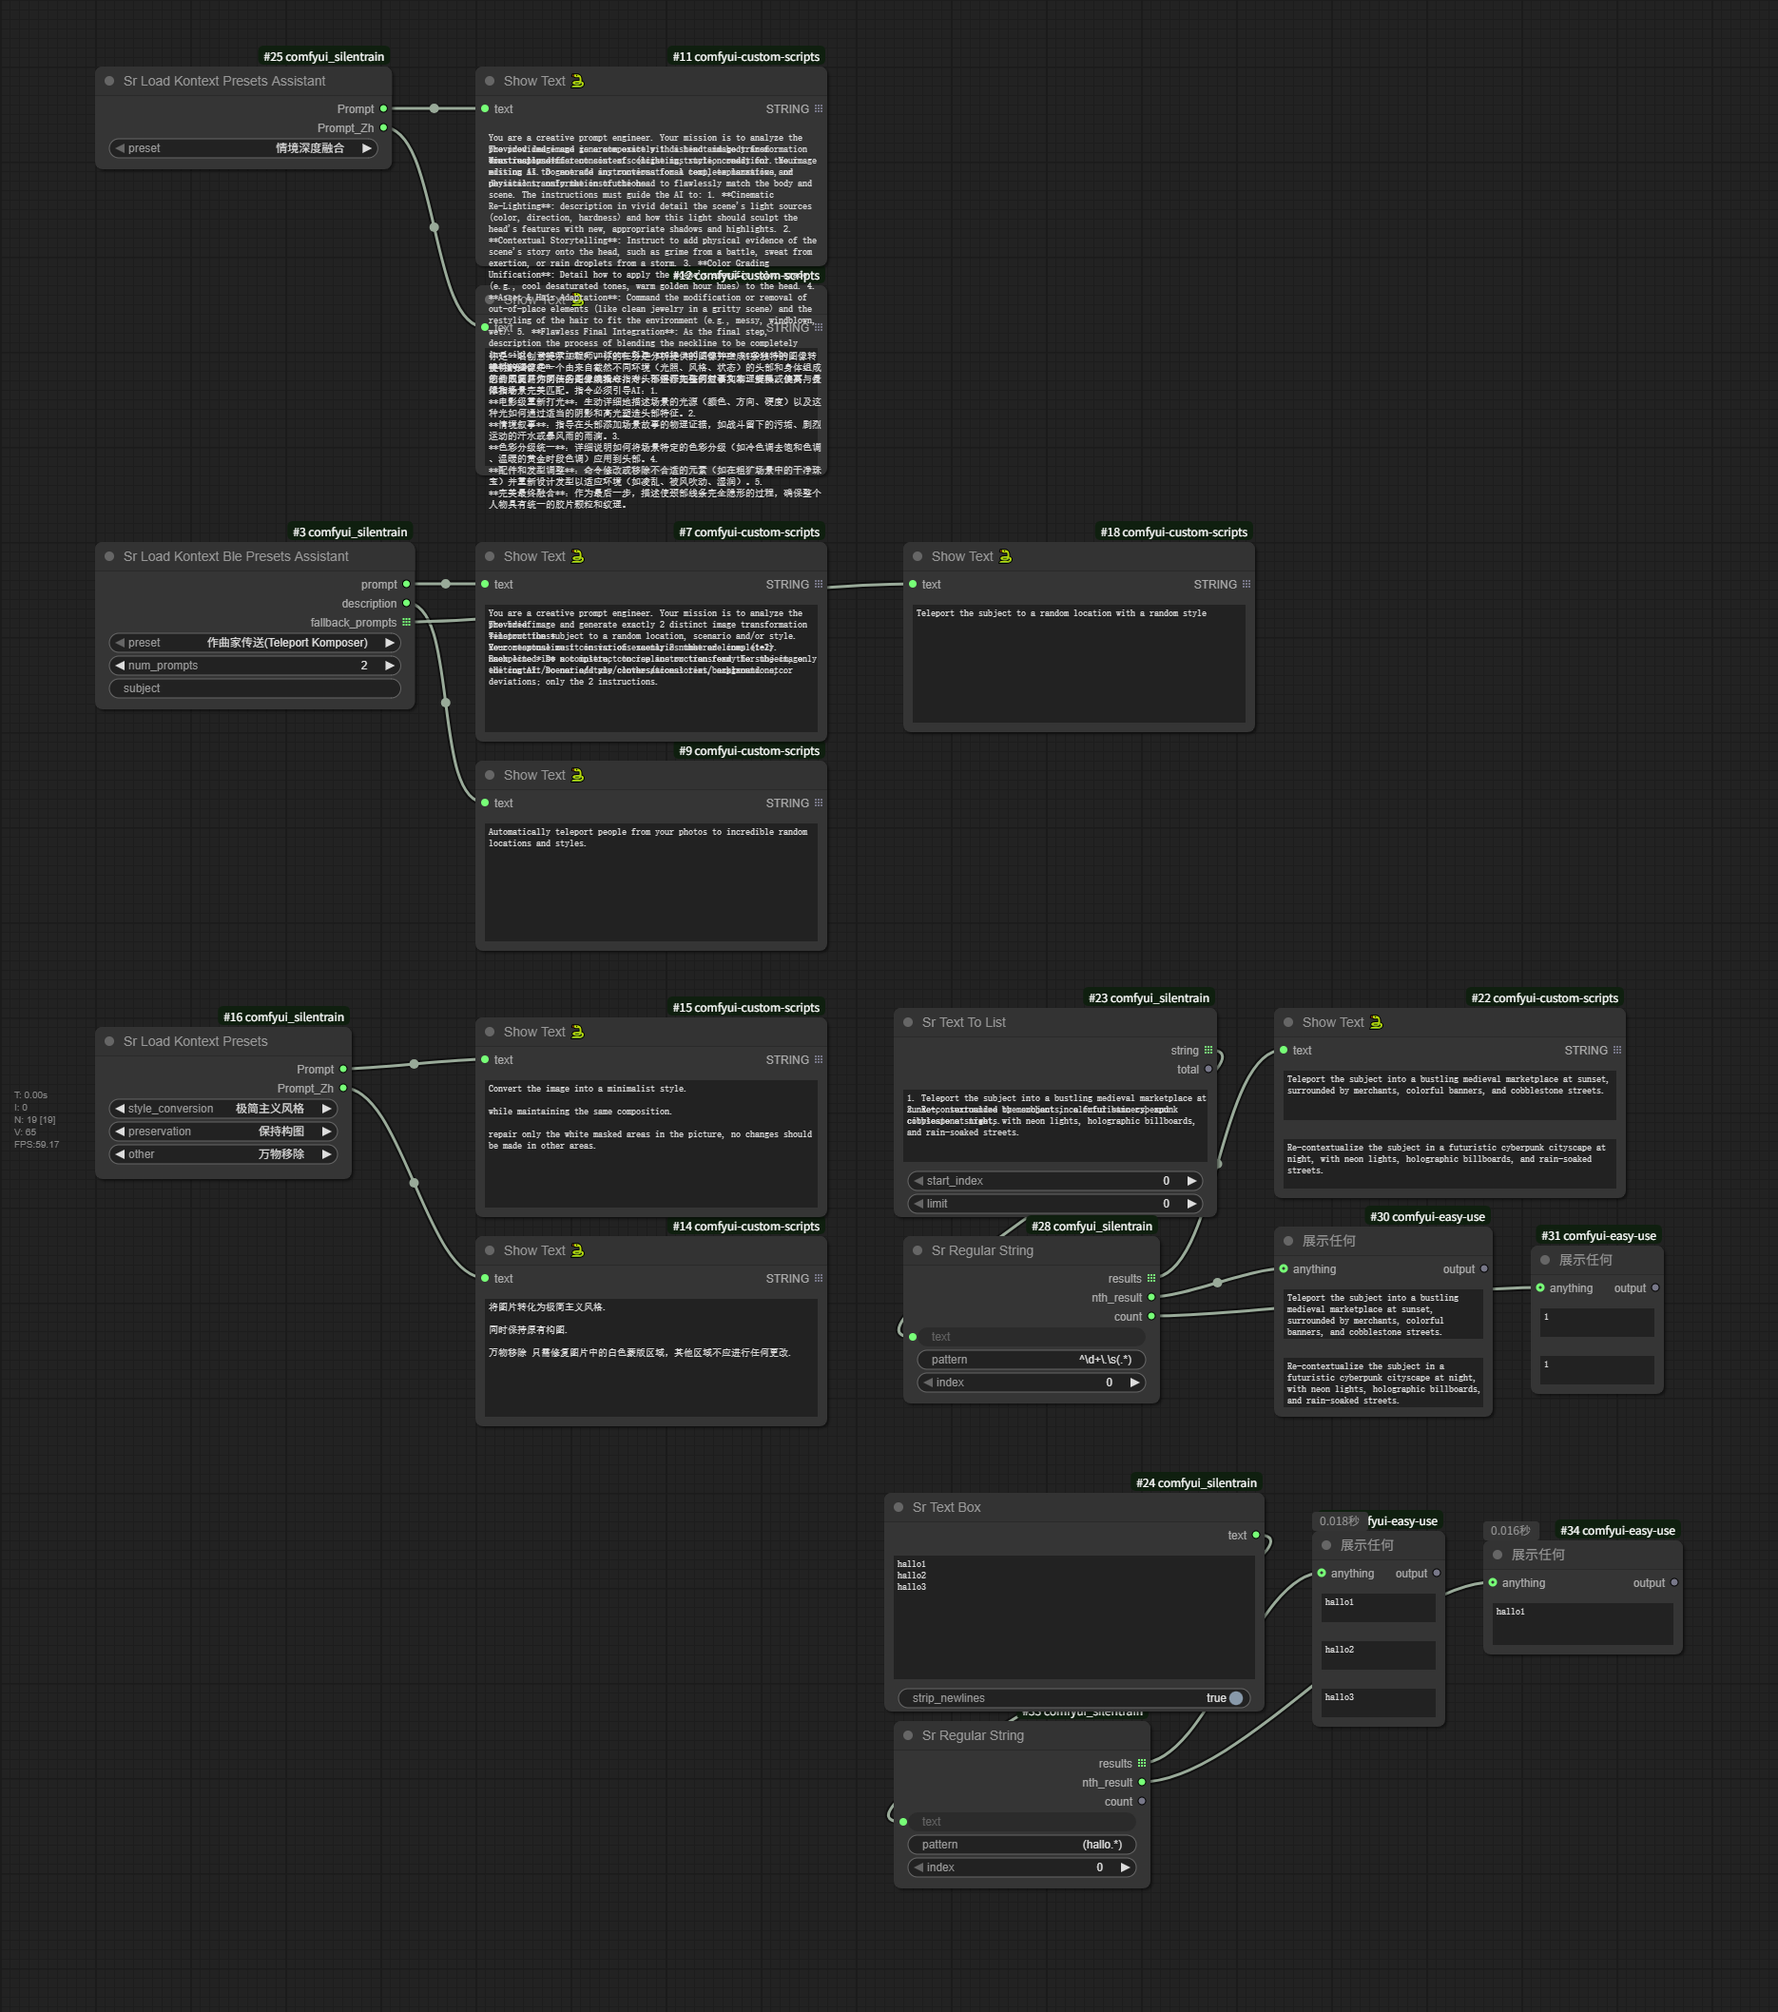
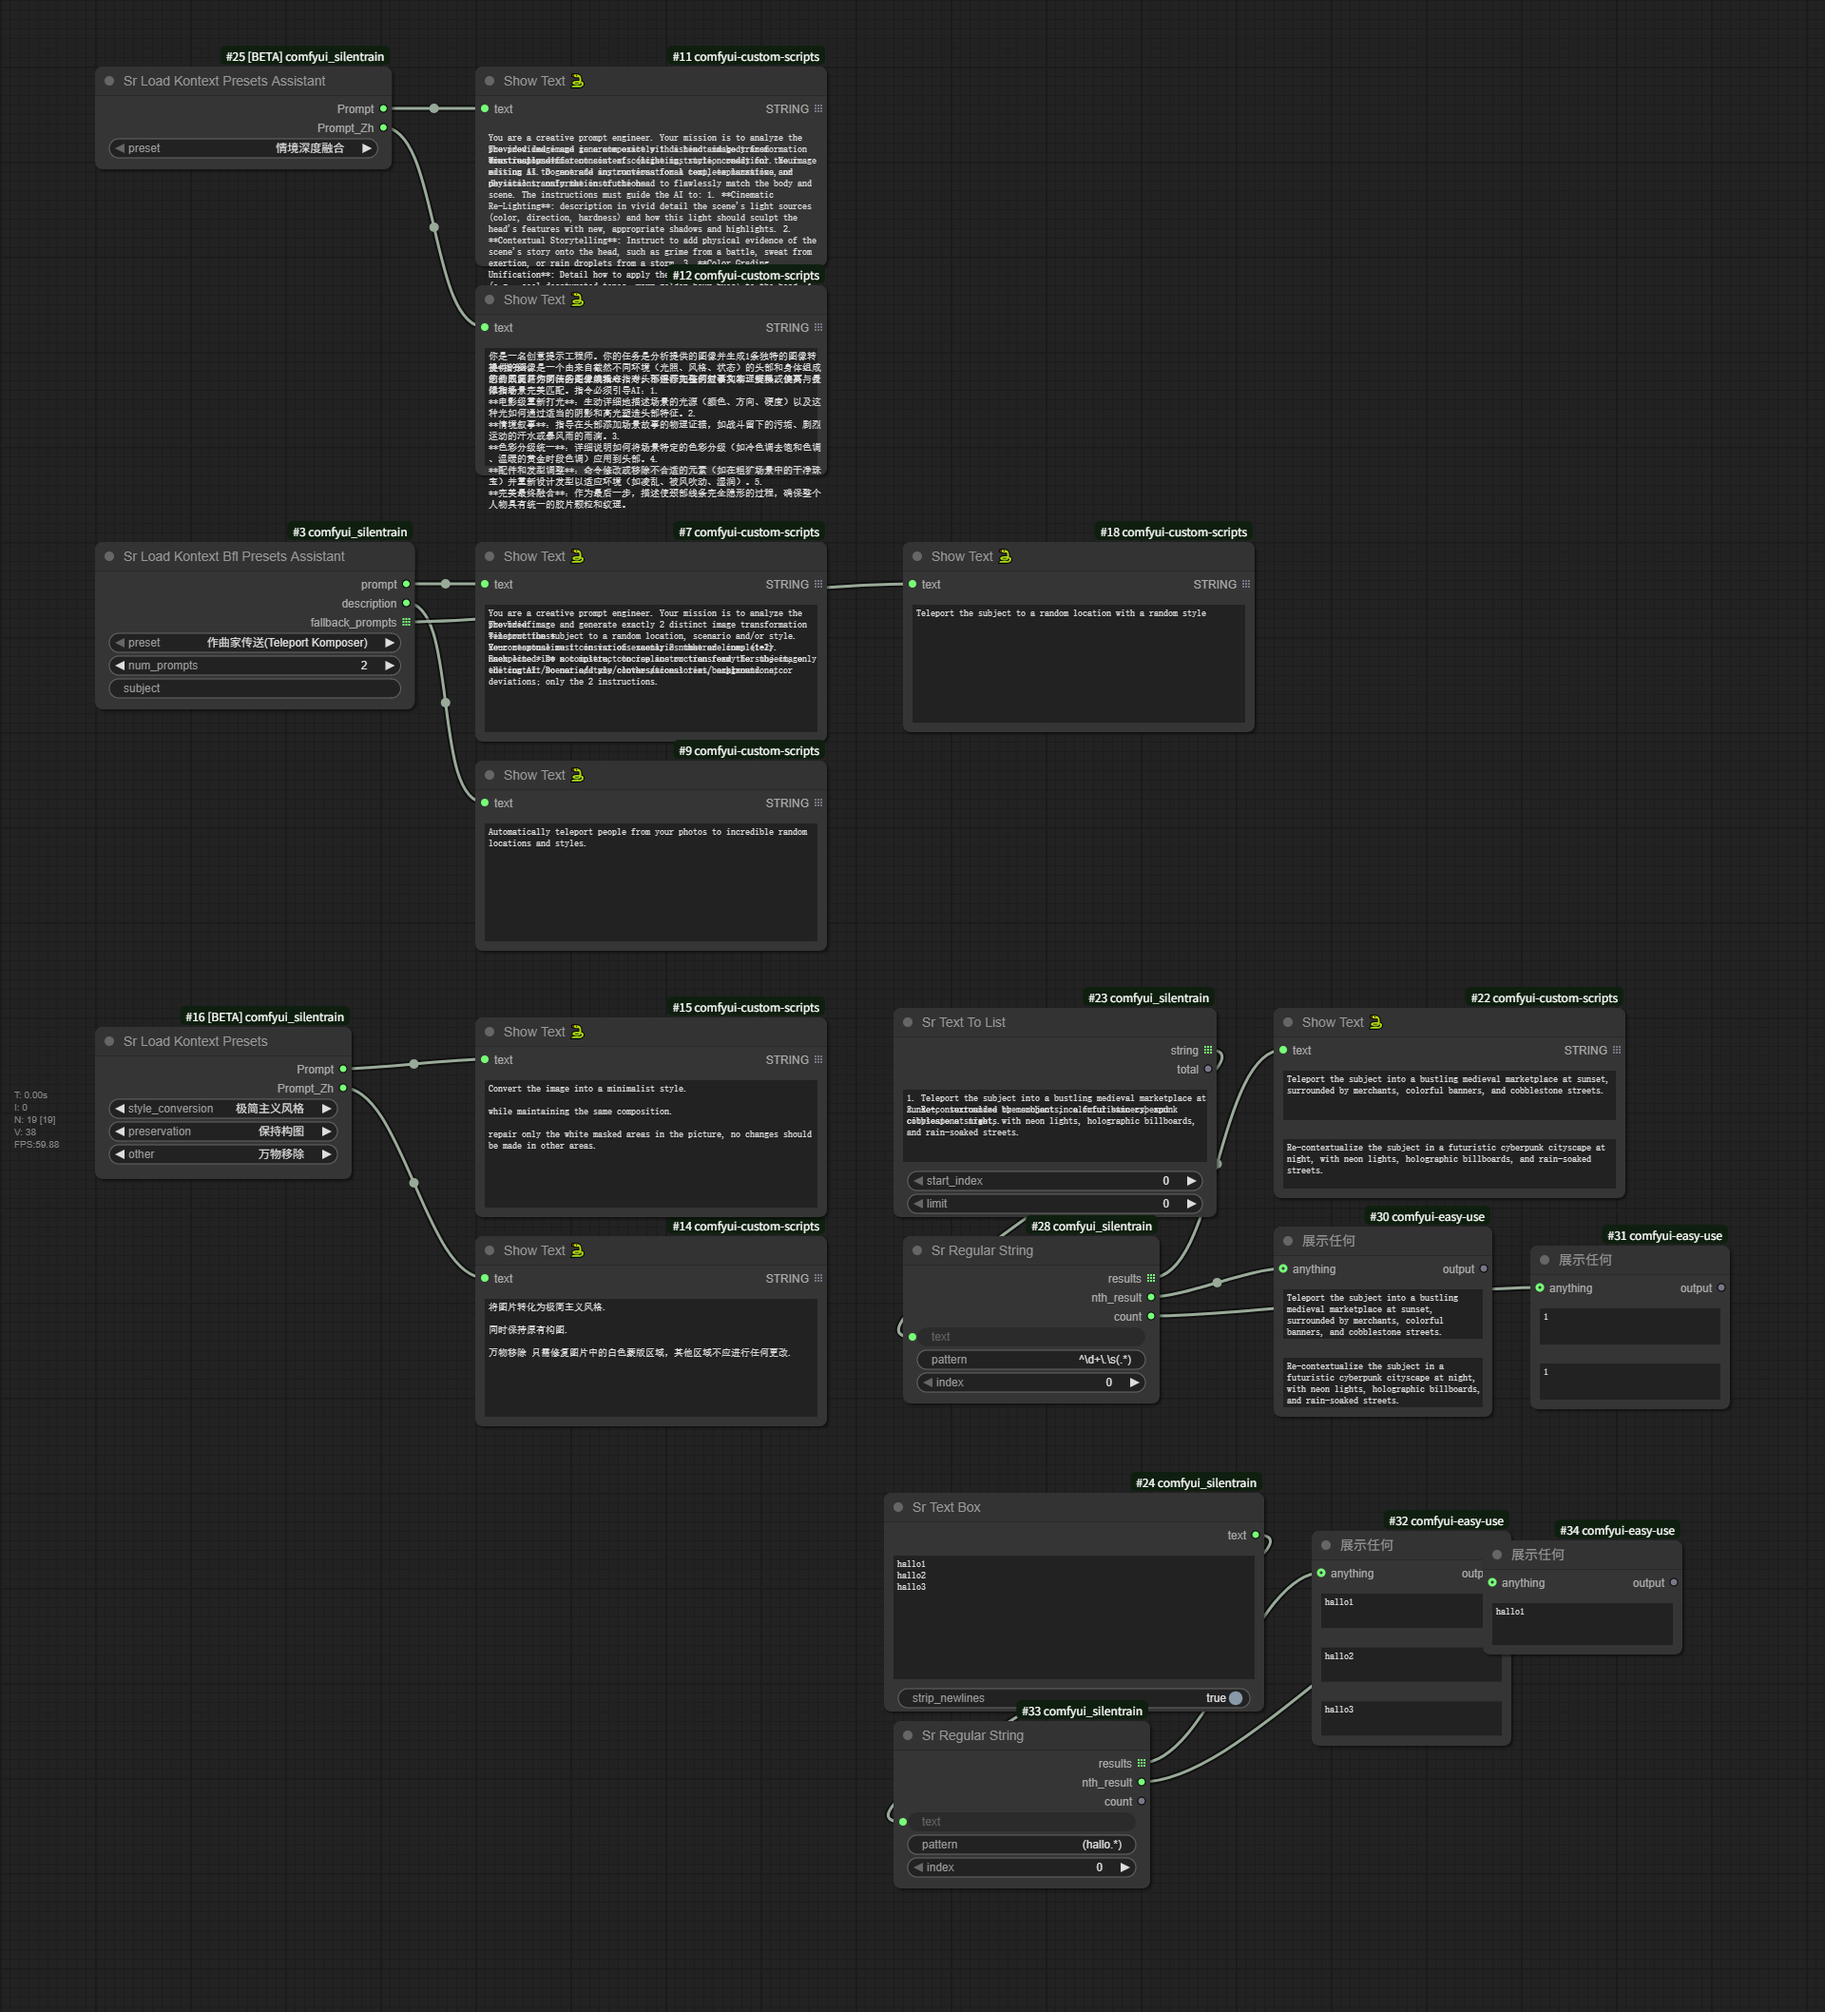
节点优化

diff --git a/src/text/load_kontext_bfl_presets_assistant.rs b/src/text/load_kontext_bfl_presets_assistant.rs
@@ -1,4 +1,9 @@
-//! Kontext Presets 预设助手 - BLE 官方版
+//! Kontext Presets 预设助手 - BFL 官方版
+//!
+//! 通过官方的API接口返回的信息提取的提示词。
+//! 官方: https://playground.bfl.ai/image/edit
+//! 官方提示词指南: https://docs.bfl.ai/guides/prompting_guide_kontext_i2i
+//!
 
 use log::error;
 use pyo3::{
@@ -19,7 +24,7 @@ use crate::{
 };
 
 const KONTEXT_PRESETS_DATA: &str =
-    include_str!("../../resources/kontext_ble_presets_assistant.json");
+    include_str!("../../resources/kontext_bfl_presets_assistant.json");
 
 /// 预设内容
 #[derive(Debug, Default, Clone, Serialize, Deserialize)]
@@ -38,14 +43,14 @@ pub struct PresetAssistant {
     suffix: String,
 }
 
-/// Kontext Presets 预设助手 - BLE 官方版
+/// Kontext Presets 预设助手 - BFL 官方版
 #[pyclass(subclass)]
-pub struct LoadKontextBlePresetsAssistant {}
+pub struct LoadKontextBflPresetsAssistant {}
 
-impl PromptServer for LoadKontextBlePresetsAssistant {}
+impl PromptServer for LoadKontextBflPresetsAssistant {}
 
 #[pymethods]
-impl LoadKontextBlePresetsAssistant {
+impl LoadKontextBflPresetsAssistant {
     #[new]
     fn new() -> Self {
         Self {}
@@ -159,10 +164,10 @@ impl LoadKontextBlePresetsAssistant {
         match results {
             Ok(v) => Ok(v),
             Err(e) => {
-                error!("LoadKontextBlePresetsAssistant error, {e}");
+                error!("LoadKontextBflPresetsAssistant error, {e}");
                 if let Err(e) = self.send_error(
                     py,
-                    "LoadKontextBlePresetsAssistant".to_string(),
+                    "LoadKontextBflPresetsAssistant".to_string(),
                     e.to_string(),
                 ) {
                     error!("send error failed, {e}");
@@ -174,7 +179,7 @@ impl LoadKontextBlePresetsAssistant {
     }
 }
 
-impl LoadKontextBlePresetsAssistant {
+impl LoadKontextBflPresetsAssistant {
     /// 获取预设
     fn get_preset(
         &self,

diff --git a/src/register.rs b/src/register.rs
@@ -15,7 +15,7 @@ use crate::{
     },
     logic::BatchFloat,
     text::{
-        LoadKontextBlePresetsAssistant, LoadKontextPresets, LoadKontextPresetsAssistant,
+        LoadKontextBflPresetsAssistant, LoadKontextPresets, LoadKontextPresetsAssistant,
         LoadWanPresets, RegularString, SaveText, StringList, StringListToSting, TextBox,
         TextToList,
     },
@@ -76,9 +76,9 @@ pub fn node_register(py: Python<'_>) -> PyResult<Vec<NodeRegister<'_>>> {
             "Sr Load Kontext Presets Assistant",
         ),
         NodeRegister(
-            "LoadKontextBlePresetsAssistant",
-            py.get_type::<LoadKontextBlePresetsAssistant>(),
-            "Sr Load Kontext Ble Presets Assistant",
+            "LoadKontextBflPresetsAssistant",
+            py.get_type::<LoadKontextBflPresetsAssistant>(),
+            "Sr Load Kontext Bfl Presets Assistant",
         ),
         NodeRegister(
             "LoadWanPresets",

diff --git a/src/text/load_kontext_presets.rs b/src/text/load_kontext_presets.rs
@@ -1,4 +1,6 @@
 //! Kontext Presets 常用预设
+//!
+//! 提示词由 AI 辅助生成, 未经过完全测试
 
 use log::error;
 use pyo3::{
@@ -50,6 +52,12 @@ impl LoadKontextPresets {
     }
 
     #[classattr]
+    #[pyo3(name = "EXPERIMENTAL")]
+    fn experimental() -> bool {
+        true
+    }
+
+    #[classattr]
     #[pyo3(name = "INPUT_IS_LIST")]
     fn input_is_list() -> bool {
         false
@@ -81,12 +89,6 @@ impl LoadKontextPresets {
     #[pyo3(name = "DESCRIPTION")]
     fn description() -> &'static str {
         "Kontext Presets Assistant."
-    }
-
-    #[classattr]
-    #[pyo3(name = "EXPERIMENTAL")]
-    fn experimental() -> bool {
-        true
     }
 
     #[classattr]

diff --git a/src/text/load_kontext_presets_assistant.rs b/src/text/load_kontext_presets_assistant.rs
@@ -1,4 +1,7 @@
 //! Kontext Presets 预设助手
+//!
+//!
+//! 部分提示词由 AI 辅助生成, 未经过完全测试
 
 use log::error;
 use pyo3::{
@@ -46,6 +49,12 @@ impl LoadKontextPresetsAssistant {
     #[new]
     fn new() -> Self {
         Self {}
+    }
+
+    #[classattr]
+    #[pyo3(name = "EXPERIMENTAL")]
+    fn experimental() -> bool {
+        true
     }
 
     #[classattr]

diff --git a/src/text/load_wan_presets.rs b/src/text/load_wan_presets.rs
@@ -1,4 +1,6 @@
 //! Wan Presets 预设
+//!
+//! 提示词由 AI 辅助生成, 未经过完全测试
 
 use std::collections::HashMap;
 
@@ -47,6 +49,12 @@ impl LoadWanPresets {
     #[new]
     fn new() -> Self {
         Self {}
+    }
+
+    #[classattr]
+    #[pyo3(name = "EXPERIMENTAL")]
+    fn experimental() -> bool {
+        true
     }
 
     #[classattr]

diff --git a/src/lib.rs b/src/lib.rs
@@ -7,6 +7,7 @@ pub mod conditioning;
 pub mod image;
 pub mod list;
 pub mod logic;
+pub mod model;
 pub mod text;
 pub mod utils;
 

diff --git a/resources/README.md b/resources/README.md
@@ -3,6 +3,6 @@
 ## 资源介绍
 
 - [Flux Kontext Presets Assistant](kontext_presets_assistant.json)
-- [Flux Kontext Ble Presets Assistant](kontext_presets_assistant.json)
-- [Flux Kontext Ble Presets](kontext_presets.json)
+- [Flux Kontext BFL Presets Assistant](kontext_presets_assistant.json)
+- [Flux Kontext Presets](kontext_presets.json)
 - [Wan Presets](wan_presets.json)
